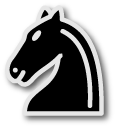
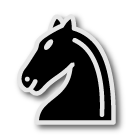
change img size to 140x140px

diff --git a/src/net/argus/chessplus/ui/ChessBoardPanel.java b/src/net/argus/chessplus/ui/ChessBoardPanel.java
@@ -15,8 +15,10 @@ import net.argus.chessplus.core.board.ChessBoard;
 import net.argus.chessplus.core.pieces.ChessPiece;
 import net.argus.chessplus.core.team.Direction;
 import net.argus.chessplus.core.team.Team;
+import net.argus.chessplus.ui.piece.Piece;
 import net.argus.chessplus.ui.piece.PieceImage;
 import net.argus.util.ThreadManager;
+import net.argus.util.debug.Debug;
 
 public class ChessBoardPanel extends JPanel {
 
@@ -96,7 +98,7 @@ public class ChessBoardPanel extends JPanel {
 	@Override
 	protected void paintComponent(Graphics g) {
 		super.paintComponent(g);
-		//g.translate(10, 10);
+
 		int offX = 0, offY = 0;
 		for(int y = 0; y < board.getHeight(); y++) {
 			for(int x = 0; x < board.getWigth(); x++) {
@@ -116,13 +118,18 @@ public class ChessBoardPanel extends JPanel {
 	}
 	
 	protected void drawPiece(Graphics g) {
-		g.translate(0, 3);
+		//g.translate(0, 3);
 		for(int y = 0; y < board.getHeight(); y++) {
 			for(int x = 0; x < board.getWigth(); x++) {
 				
 				ChessPiece piece = board.getPiece(new Location((String) ((char) (getX(x) + 97) + Integer.toString(getY(y)))));
-				if(piece != null)
-					g.drawImage(PieceImage.getImage(true, piece.getTeam(), piece.getName(), size), 0, 0, null);
+				if(piece != null) {
+					Piece p = Piece.getPiece(piece.getName());
+					if(p != null)
+						p.draw(g, PieceImage.getImage(true, piece.getTeam(), piece.getName(), size));
+					else
+						Debug.log("Piece: " + piece.getName() + " is not registered");
+				}
 				g.translate(size, 0);
 			}
 			g.translate(-size*board.getWigth(), size);

diff --git a/src/net/argus/chessplus/ui/piece/Piece.java b/src/net/argus/chessplus/ui/piece/Piece.java
@@ -1,21 +1,42 @@
 package net.argus.chessplus.ui.piece;
 
-import java.awt.Graphics2D;
+import java.awt.Graphics;
 import java.awt.Image;
+import java.util.ArrayList;
+import java.util.List;
 
-public abstract class Piece {
+public class Piece {
 	
-	protected Image img;
-	protected int woff = 0;
-	protected int hoff = 0;
+	private static List<Piece> pieces = new ArrayList<Piece>();
 	
-	public Piece(Image img) {
-		this.img = img;
-	}
+	public static final Piece PAWN = new Piece("pawn", 0, 0);
+	public static final Piece ROOK = new Piece("rook", 0, 0);
+	public static final Piece KNIGHT = new Piece("knight", 0, 0);
+	public static final Piece BISHOP = new Piece("bishop", 0, 0);
+	public static final Piece QUEEN = new Piece("queen", 0, 0);
+	public static final Piece KING = new Piece("king", 0, 0);
 	
-	public void draw(Graphics2D g) {
-		g.drawImage(img, woff, hoff, null);
+	private String piece;
+	private int woff = 0;
+	private int hoff = 0;
+	
+	public Piece(String piece, int woff, int hoff) {
+		this.piece = piece;
+		this.woff = woff;
+		this.hoff = hoff;
 		
+		pieces.add(this);
 	}
+	
+	public void draw(Graphics g, Image img) {
+		g.drawImage(img, woff, hoff, null);	
+	}
+	
+	public static Piece getPiece(String name) {
+		for(Piece p : pieces)
+			if(p.piece.toLowerCase().equals(name.toLowerCase()))
+				return p;
+		return null;
+	}	
 
 }

diff --git a/src/net/argus/chessplus/ui/TestUI.java b/src/net/argus/chessplus/ui/TestUI.java
@@ -1,0 +1,27 @@
+package net.argus.chessplus.ui;
+
+import net.argus.chessplus.core.board.ChessBoard;
+import net.argus.chessplus.core.board.basic.BasicChessBoard;
+import net.argus.chessplus.core.board.basic.BasicChessPromote;
+import net.argus.chessplus.core.pieces.ChessPiece;
+import net.argus.chessplus.core.pieces.Queen;
+import net.argus.chessplus.core.team.Team;
+
+public class TestUI {
+	
+	public static void main(String[] args) {
+		ChessFrame fen = new ChessFrame();
+		
+		ChessBoardPanel pan = new ChessBoardPanel(new ChessBoard(new BasicChessBoard(new BasicChessPromote() {
+			
+			@Override
+			public ChessPiece promote(ChessBoard board, ChessPiece piece) {
+				return new Queen(board);
+			}
+		})), 80, Team.WHITE);
+		fen.setContentPane(pan);
+		
+		fen.setVisible(true);
+	}
+
+}
